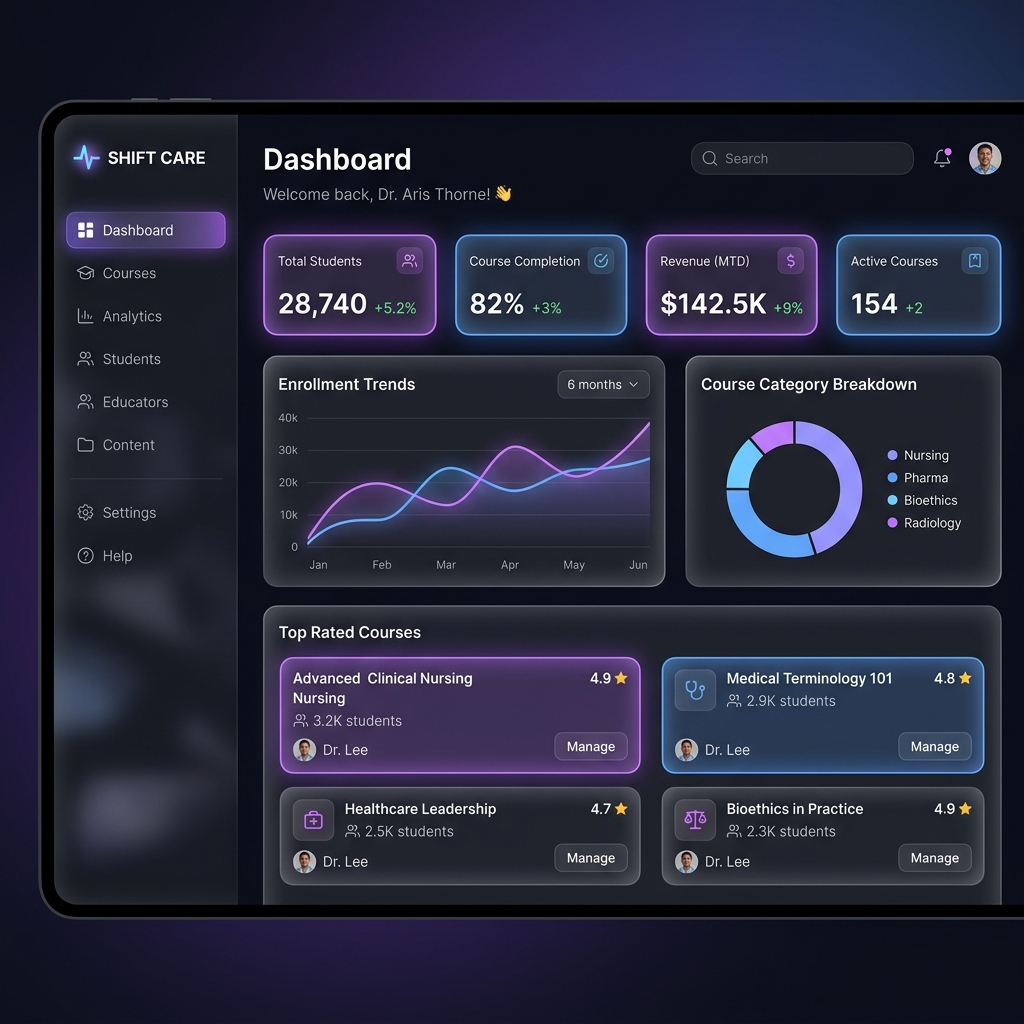
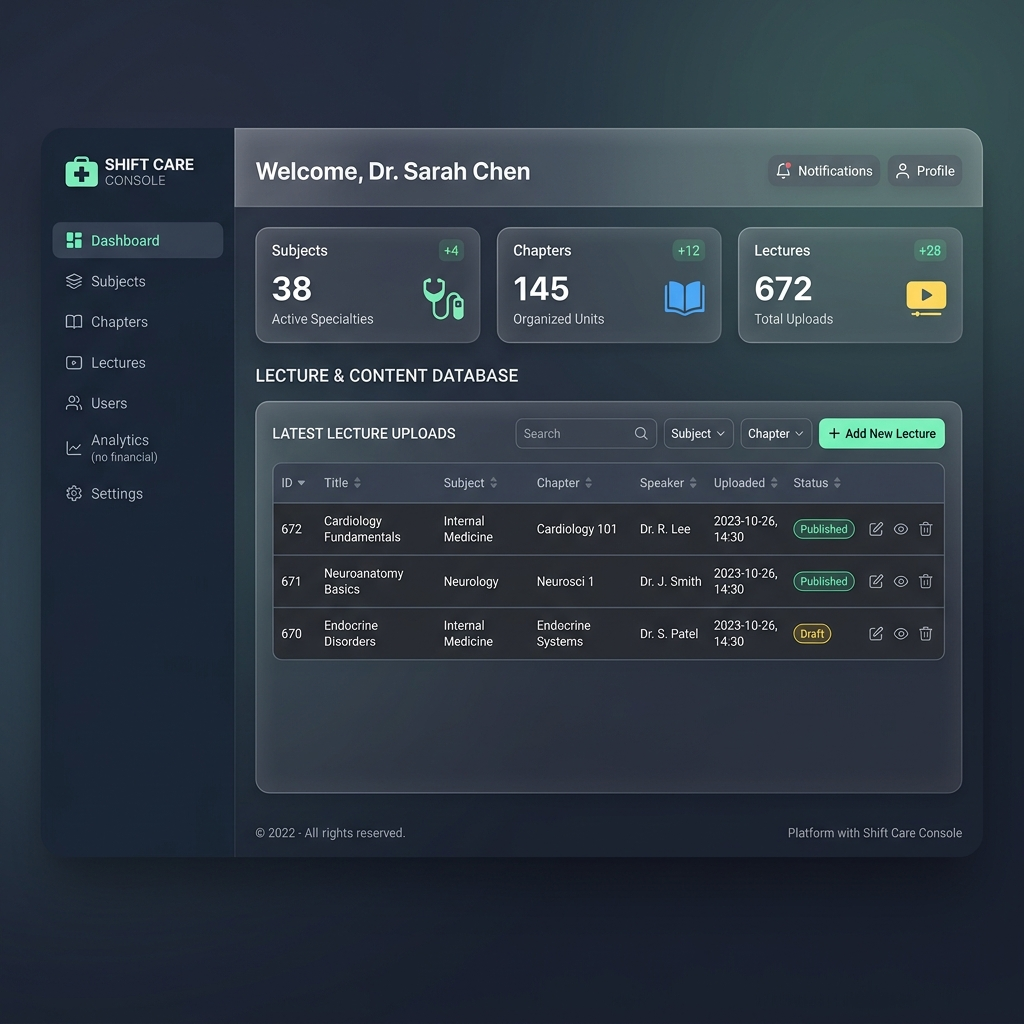
Deploying to gh-pages from @ smitsun/shifa@e67313934e21482ad67dcea04bf51dd85e40dfb7 🚀

diff --git a/shift_care_proposal.html b/shift_care_proposal.html
@@ -3,7 +3,7 @@
 <head>
   <meta charset="UTF-8">
   <meta name="viewport" content="width=device-width, initial-scale=1.0">
-  <title>Shift Care Proposal | UAE Medical Faculty & Professors</title>
+  <title>Shift Care Proposal | Medical Faculty & Tutors</title>
   <link href="https://fonts.googleapis.com/css2?family=Outfit:wght@300;400;500;600;700;800&family=Plus+Jakarta+Sans:wght@300;400;500;600;700&display=swap" rel="stylesheet">
   <style>
     :root {
@@ -161,10 +161,10 @@
       letter-spacing: -0.5px;
     }
 
-    .tag-uae {
-      background: #fff8e1;
-      border: 1px solid var(--gold);
-      color: #b78103;
+    .tag-faculty {
+      background: #e0f2fe;
+      border: 1px solid #0284c7;
+      color: #0369a1;
       padding: 6px 14px;
       border-radius: 20px;
       font-size: 11px;
@@ -297,12 +297,12 @@
 
     /* Gold banner box */
     .gold-banner {
-      background: #fdfaf2;
-      border-left: 4px solid var(--gold);
+      background: #fcfcfd;
+      border-left: 4px solid var(--primary);
       padding: 16px 20px;
       border-radius: 0 12px 12px 0;
       font-size: 13.5px;
-      color: #72531a;
+      color: var(--dark);
       margin-bottom: 20px;
     }
 
@@ -359,7 +359,7 @@
   <!-- Printable Banner Control -->
   <div class="print-banner">
     <div class="print-text">
-      <h3>📄 Shift Care UAE Medical Proposal</h3>
+      <h3>📄 Shift Care Medical Proposal</h3>
       <p>Premium 2-Page Sales Proposal optimized for print. Click to download as a clean corporate PDF.</p>
     </div>
     <button class="print-btn" onclick="window.print()">Print / Save as PDF</button>
@@ -377,14 +377,14 @@
             </div>
             <span class="logo-title">Shift Care</span>
           </div>
-          <span class="tag-uae">UAE Medical Faculty Edition</span>
+          <span class="tag-faculty">Medical Faculty Lecture Assistant</span>
         </div>
         <h1>Shift Care: Elevating Medical Education</h1>
-        <div class="subtitle">A Structured Lecture Directory & Interactive study Platform for UAE Medical Universities</div>
+        <div class="subtitle">A Structured Lecture Presentation & Media Directory Platform for Medical Professors</div>
         
         <div class="info-bar">
           <div><strong>Prepared For:</strong> Medical Professors & Faculty Tutors</div>
-          <div><strong>Market Focus:</strong> UAE Medical Universities</div>
+          <div><strong>Core Focus:</strong> In-Lecture Presentation & Syllabus Indexing</div>
           <div><strong>Core Tech:</strong> React Admin Console & Flutter Client</div>
         </div>
       </header>
@@ -392,24 +392,24 @@
       <section>
         <h2>Executive Overview</h2>
         <p>
-          Medical undergraduates in the UAE are tasked with absorbing massive quantities of technical lectures under demanding clinical rotations. While highly educational video lectures are abundant, they remain scattered across platforms, exposing students to algorithmic distractions and disrupting university schedules.
+          In modern medical education, delivering high-impact lectures requires professors to display complex visual animations, 3D anatomical charts, and detailed surgical videos. While helpful video resources are abundant on YouTube and other platforms, locating them mid-lecture, dealing with video ads, and organizing them alongside chapters wastes critical class time.
         </p>
         <p>
-          <strong>Shift Care</strong> bridges this gap. It provides medical professors with a secure, centralized web console to publish, curate, and structure lecture videos and resource slides into clean subject curricula. For students, it provides a premium, distraction-free mobile application with glassmorphic layouts, offline synchronization, and timestamped personal lecture notes.
+          <strong>Shift Care</strong> serves as an elegant, distraction-free in-lecture media assistant. It provides medical professors with a secure web console to pre-load, structure, and categorize surgical animations and lectures into subjects and chapters. During class, the professor uses a premium, dark-mode mobile application to immediately cast or display the precise educational videos needed for that day's lecture.
         </p>
       </section>
 
       <section>
-        <h2>The Professor's Interface: Web Admin Console</h2>
+        <h2>The Professor's Curriculum Portal: Web Console</h2>
         <div class="grid-2">
           <div>
             <p>
-              Tutors retain absolute control over the syllabus catalog through a glassmorphic dashboard. It enables professors to pre-load and align materials before walking into the classroom:
+              Tutors manage their subject slides and surgery videos through a clean, glassmorphic database editor. The UI is focused strictly on organizing curriculum contents without cluttered metrics:
             </p>
             <ul>
-              <li><span class="bold-lbl">Subject Management:</span> Create modules for subjects (e.g. Microbiology, Anatomy, Pathology) with custom titles, descriptions, and cover thumbnails.</li>
-              <li><span class="bold-lbl">Chapter Mapping:</span> Arrange syllabus chapters sequentially (e.g. Bacteriology, Virology) to maintain class goals.</li>
-              <li><span class="bold-lbl">Hyperlinked Resources:</span> Upload video lectures by pasting a YouTube URL and linking slide PDFs, Google Drive directories, or journals in the description.</li>
+              <li><span class="bold-lbl">Subject Management:</span> Organize your syllabus into main modules (e.g. Microbiology, Anatomy, Surgery) with custom titles and cover thumbnails.</li>
+              <li><span class="bold-lbl">Chapter Directories:</span> Map out chapters sequentially (e.g. Bacteriology, Upper Limb) to match your teaching schedule.</li>
+              <li><span class="bold-lbl">Lecture Video Uploads:</span> Add presentation videos by simply pasting the YouTube link. Associate slides and reference hyperlinks directly within the lecture detail sheets.</li>
             </ul>
           </div>
           <div class="mockup-container">
@@ -419,7 +419,7 @@
       </section>
 
       <div class="page-footer">
-        <span>Shift Care Healthcare Proposal</span>
+        <span>Shift Care Faculty Media Assistant</span>
         <span>Page 1 of 2</span>
       </div>
     </div>
@@ -430,55 +430,55 @@
     <!-- PAGE 2 -->
     <div class="page">
       <section style="margin-top: 10px;">
-        <h2>The Student's Interface: Premium Mobile Application</h2>
+        <h2>The Lecture Presentation App: Mobile Interface</h2>
         <div class="grid-2">
           <div class="mockup-container">
             <img src="./shift_care_mobile_player.png" alt="Shift Care Mobile Application Video Player Screen Mockup">
           </div>
           <div>
             <p>
-              Built around **Apple Glass OS** design aesthetics, the mobile application provides a beautiful, dark-mode, frosted-glass interface optimized for focus and quick study:
+              Designed around premium **Apple Glass OS** glassmorphic aesthetics, the dark-mode mobile app allows professors to launch lecture videos with maximum speed and accuracy:
             </p>
             <ul>
-              <li><span class="bold-lbl">Centralized Directory:</span> Safe and structured lecture lists matching the professor's curriculum, preventing external recommendations.</li>
-              <li><span class="bold-lbl">Glassmorphic Bottom Dock:</span> Smooth navigation layouts and floating bars that float over scrolled video listings.</li>
-              <li><span class="bold-lbl">Smooth Wavy Buttons:</span> Mathematically painted, dynamic vector sine/cosine wave buttons that animate interactively.</li>
+              <li><span class="bold-lbl">Instant Ad-Free Stream:</span> Select and play educational videos instantly on the classroom screen, shielding the lecture from commercial ads or algorithmic recommendations.</li>
+              <li><span class="bold-lbl">Curriculum Folders:</span> Navigate folders divided by subject and chapter to locate specific surgery animations or anatomical guides on the fly.</li>
+              <li><span class="bold-lbl">Smooth Apple OS UI:</span> Highly responsive frosted-glass panels and animated wavy buttons designed for flawless presentation handling.</li>
             </ul>
           </div>
         </div>
       </section>
 
       <section>
-        <h2>Key Academic Benefits for UAE Medical Colleges</h2>
+        <h2>Designed Specifically for In-Lecture Excellence</h2>
         <div class="grid-columns">
           <div class="content-box">
-            <h3>⏱️ Timestamped Active Recall Notes</h3>
+            <h3>📖 Structured Media Indexing</h3>
             <p style="font-size: 13px; color: #475569; margin-bottom: 0;">
-              Students can type personal study comments synced to the exact playback second. Tapping a saved note automatically seeks the video timeline back to that point—critical for reviewing complex slides or histology.
+              Allows the faculty to build a centralized repository of 3D animations and clinical videos. Tutors can pre-organize and access the exact video lists when they walk into class, eliminating time spent searching in front of students.
             </p>
           </div>
           <div class="content-box">
-            <h3>⚡ High-Performance SQLite Offline Sync</h3>
+            <h3>⚡ High-Performance Offline Cache</h3>
             <p style="font-size: 13px; color: #475569; margin-bottom: 0;">
-              Saves lecture descriptions, note lists, and progress statistics directly on the device. Students can query terms, read lecture materials, and organize bookmarks in hospital zones with weak connectivity.
+              Subject folders, chapter structures, and notes are cached locally on your device via SQLite. This ensures lightning-fast directory browsing even inside heavy concrete lecture halls with poor Wi-Fi.
             </p>
           </div>
         </div>
         
         <div class="gold-banner">
-          🌍 <strong>UAE Institutional Alignment:</strong> Shift Care is designed to match standard accreditation requirements in UAE medical schools, supporting active learning, lecture indexing, and student streak motivation indicators.
+          🎓 <strong>Active Presentation Tool:</strong> With features like timestamped notes (which let you jump to specific key moments of a surgery or animation instantly), Shift Care serves as an essential teaching companion to boost student focus.
         </div>
       </section>
 
       <section>
-        <h2>Platform Scalability & Integration</h2>
+        <h2>Technical Architecture</h2>
         <p>
-          Shift Care utilizes a high-security backend architecture backed by Firebase Authentication and Cloud Firestore for live cross-device syncing, paired with local SQLite caching for sub-millisecond offline performance.
+          The system uses a fast React + Vite web panel for data uploads and a Flutter-based mobile client to support smooth, native 60fps animations. It features cloud synchronization for updates, backed by high-speed local databases to ensure zero latency during live lectures.
         </p>
       </section>
 
       <div class="page-footer">
-        <span>© 2026 Shift Care Platform • UAE University Sales Proposal</span>
+        <span>© 2026 Shift Care Platform • Technical Sales Proposal</span>
         <span>Page 2 of 2</span>
       </div>
     </div>